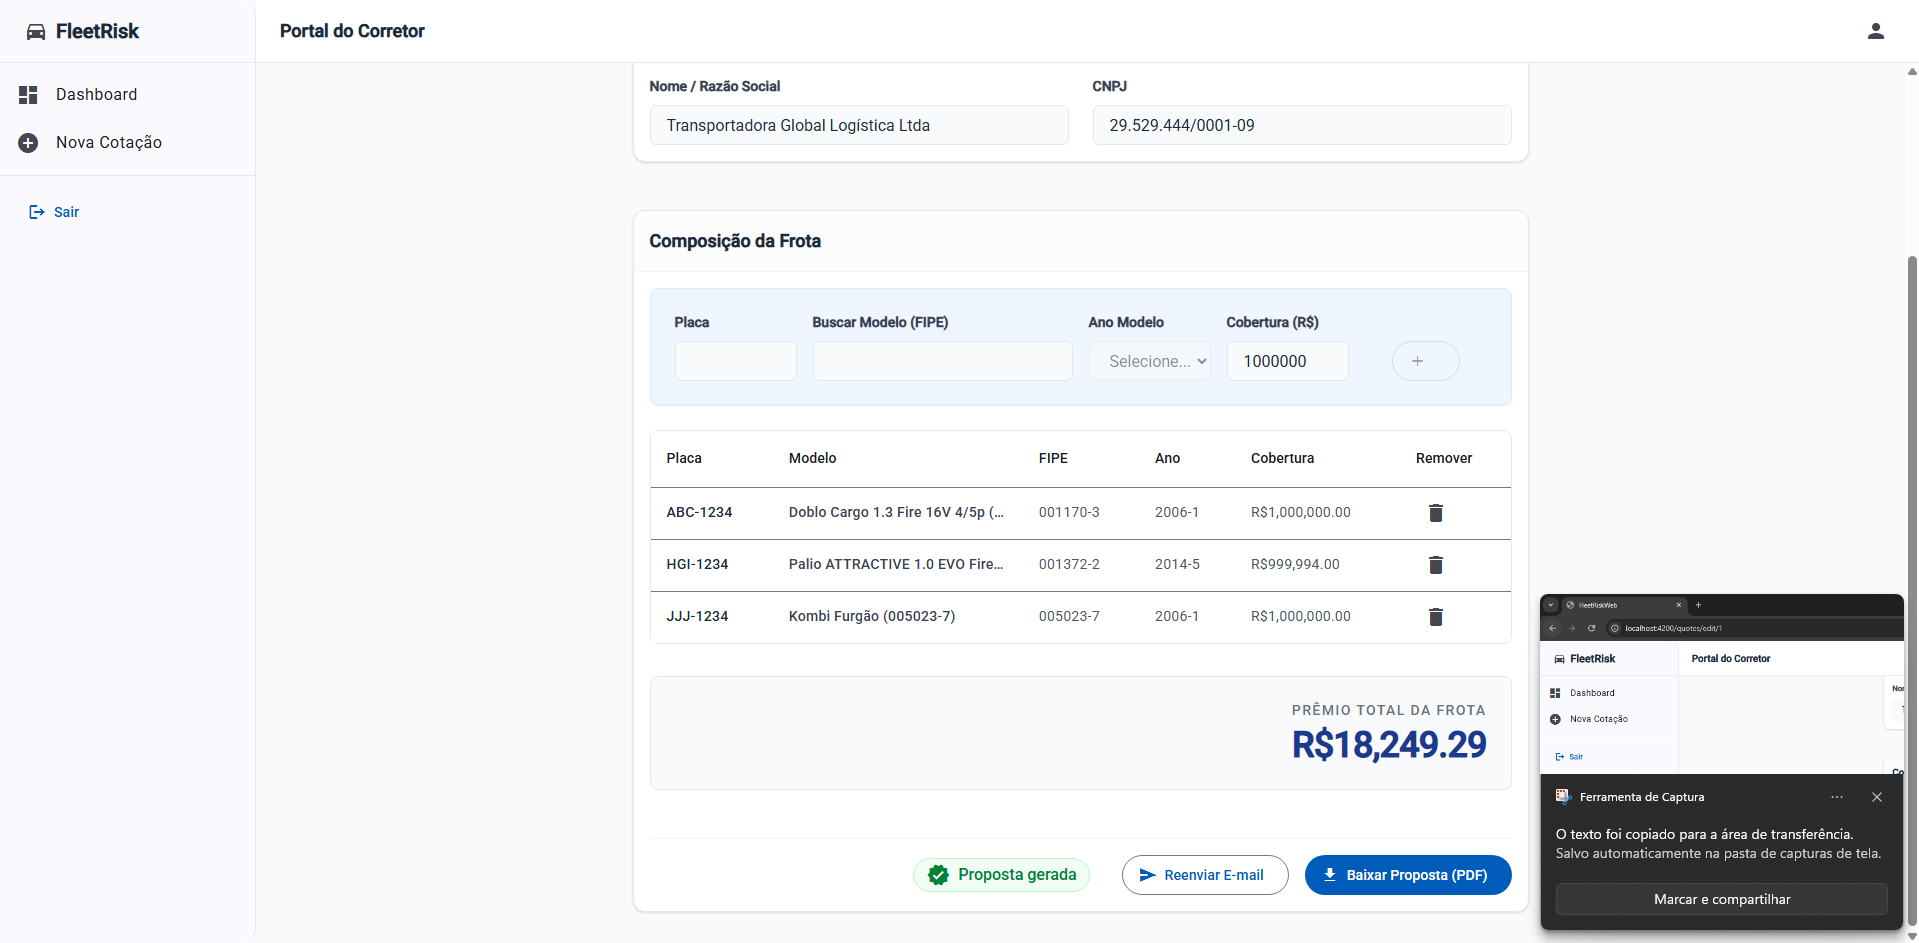
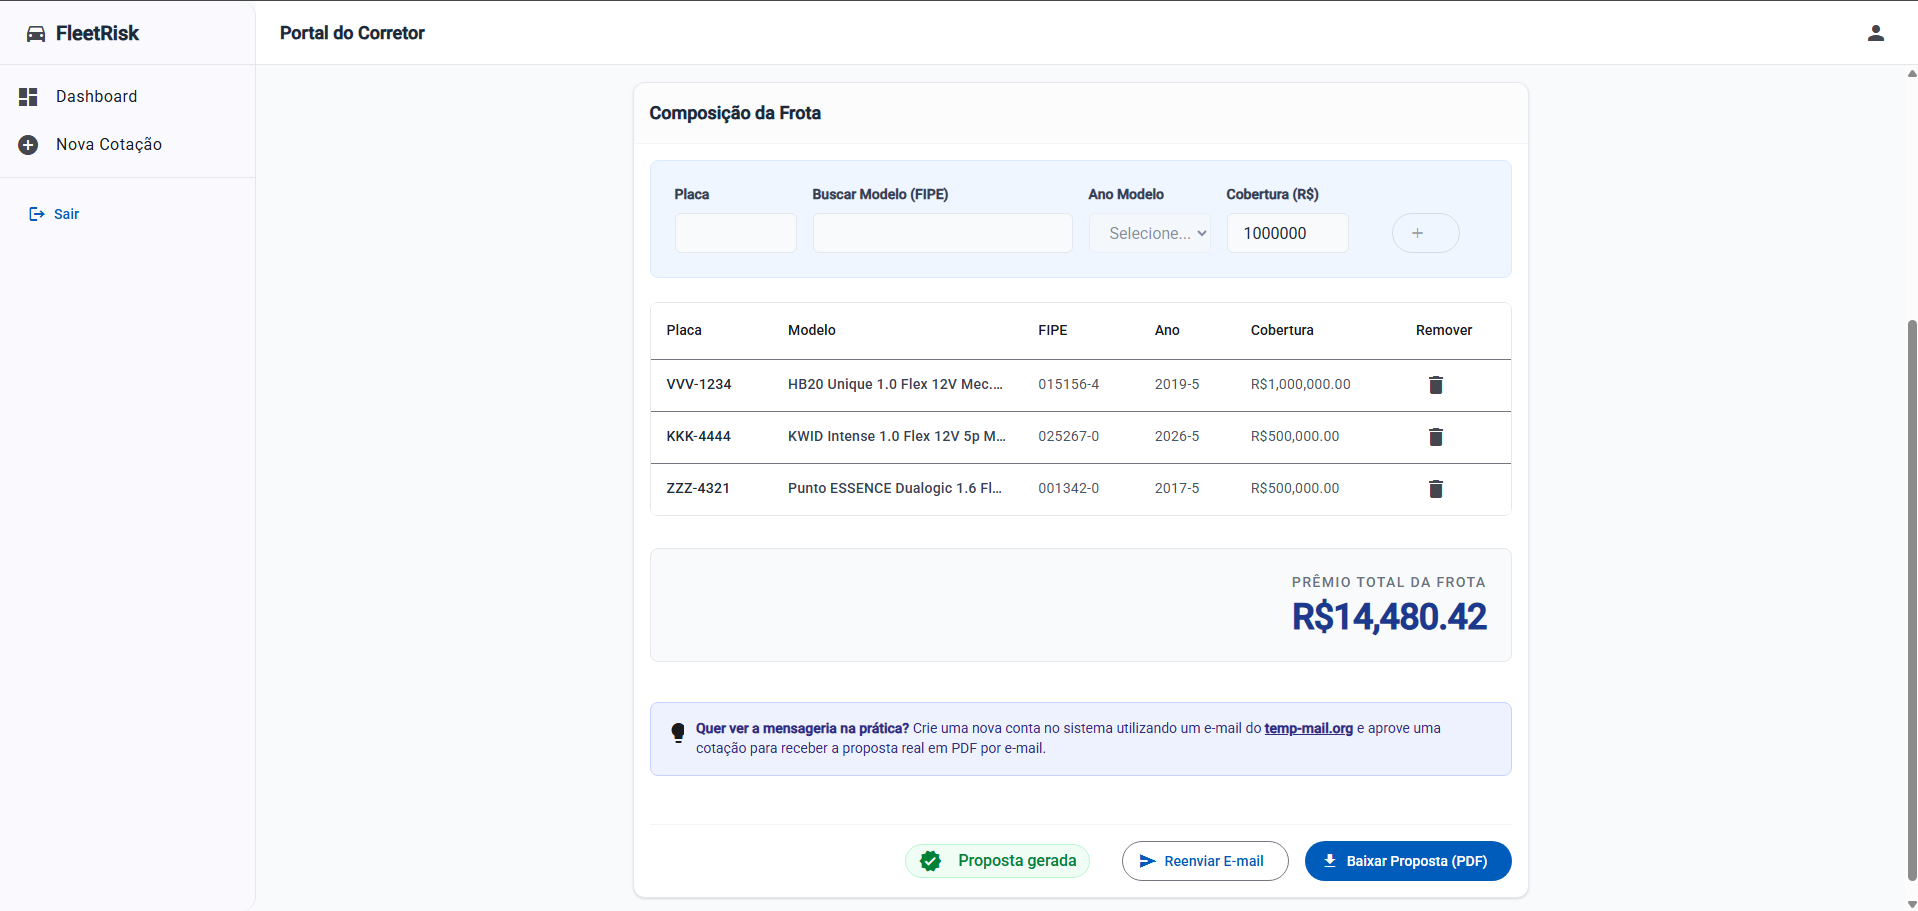
update README

diff --git a/README.md b/README.md
@@ -6,9 +6,25 @@
 ![RxJS](https://img.shields.io/badge/RxJS-Event_Streams-B3083F?style=for-the-badge&logo=reactivex)
 ![WebSocket](https://img.shields.io/badge/WebSocket-STOMP-black?style=for-the-badge&logo=socket.io)
 
-O **FleetRisk Web** é o frontend principal do ecossistema de subscrição de seguros para frotas comerciais. Desenvolvido como uma Single Page Application (SPA) de alta performance utilizando Angular 19, o sistema oferece à corretora uma experiência fluida para precificação de frotas complexas, suportada por WebSockets e arquitetura orientada a eventos.
+O **FleetRisk Web** é o frontend principal do ecossistema de subscrição de seguros para frotas comerciais. Desenvolvido como uma Single Page Application (SPA) de alta performance utilizando Angular 19, o sistema oferece à corretora uma experiência fluida para precificação de frotas, suportada por WebSockets, arquitetura orientada a eventos e um design focado na conversão e produtividade do usuário.
 
 ---
+
+## 🚀 Acesse o projeto em produção
+
+- **Aplicação Front-end:** https://fleetrisk.netlify.app/login
+
+- **Documentação da API (Swagger):** https://fleetrisk-ruanpablo2.duckdns.org/swagger-ui/index.html
+
+## 🔥 Highlights Técnicos (diferenciais do projeto)
+
+- **Zero-Friction Demo:** Interface de login projetada com a funcionalidade One-Click Demo, permitindo que recrutadores e avaliadores técnicos testem o sistema instantaneamente sem a necessidade de preencher formulários de cadastro.
+
+- **UX Educativa:** Banners contextuais integrados na interface (como a dica de uso do Temp-Mail) que guiam o avaliador a testar as integrações assíncronas do backend (envio de e-mails via RabbitMQ) diretamente pela UI.
+
+- **Mobile-First & Layout Adaptativo:** Utilização do `BreakpointObserver` do Angular CDK para transformar dinamicamente a barra de navegação em uma gaveta flutuante (`drawer`) em dispositivos móveis. Tabelas densas de dados atuariais foram otimizadas com rolagem horizontal contida, garantindo que o painel da corretora seja 100% responsivo em qualquer formato de tela.
+
+- **Conexão Real-Time Resiliente:** Integração do cliente STOMP com SockJS para garantir que a conexão WebSocket "cave um túnel" HTTP seguro por debaixo de proxies reversos e API Gateways da nuvem, garantindo atualizações de prêmio na tela sem falhas de CORS.
 
 ## 🚀 Funcionalidades Principais & UX
 
